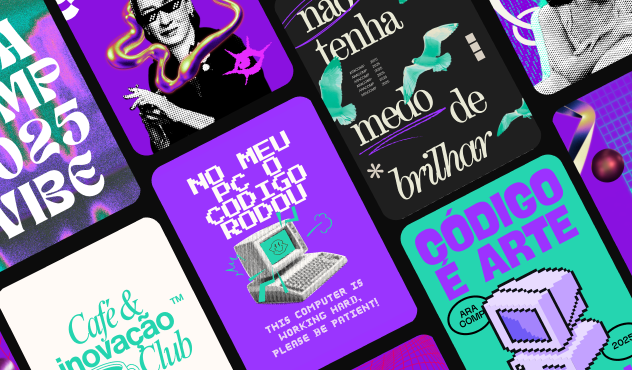
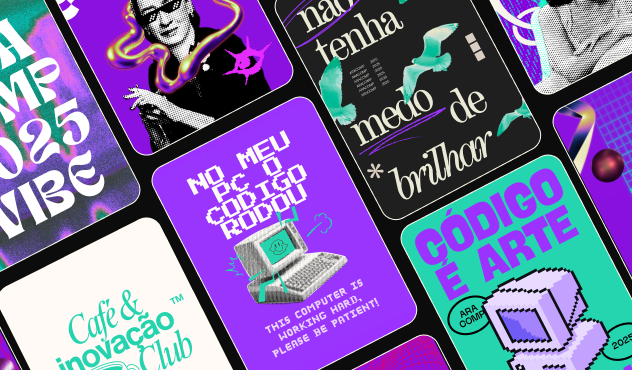
Update portfolio assets and contact links
This commit refreshes the portfolio project images, replaces the old Yu-Gi-Oh asset with a new one, updates the delivered-project counter, and switches the contact call-to-action from WhatsApp to email.

diff --git a/index.html b/index.html
@@ -399,7 +399,7 @@
                 <div class="grid grid-cols-1 md:grid-cols-2 gap-8 md:gap-10">
                     <div class="group cursor-pointer scale-in">
                         <div class="relative aspect-video rounded-3xl md:rounded-5xl overflow-hidden mb-6">
-                            <img src="assets/projects/1.png" alt="Yu-Gi-Oh Card Game" class="w-full h-full object-cover grayscale group-hover:grayscale-0 group-hover:scale-110 transition-all duration-700" />
+                            <img src="assets/projects/yugioh.png" alt="Yu-Gi-Oh Card Game" class="w-full h-full object-cover grayscale group-hover:grayscale-0 group-hover:scale-110 transition-all duration-700" />
                             <div class="absolute top-4 right-4 md:top-6 md:right-6">
                                 <div class="bg-light text-dark px-4 py-1.5 md:px-6 md:py-2 rounded-full font-bold text-[10px] md:text-xs uppercase tracking-widest shadow-xl">Web</div>
                             </div>
@@ -534,7 +534,7 @@
                                 <span class="text-[10px] md:text-xs text-light/40 uppercase tracking-widest font-bold">Anos de Experiência</span>
                             </div>
                             <div class="flex-1 min-w-[120px] bg-primary/10 p-5 md:p-6 rounded-2xl md:rounded-3xl border border-primary/20 text-center lg:text-left transition-all hover:bg-primary/20">
-                                <span class="counter block text-3xl md:text-4xl font-bold text-primary mb-1" data-target="30">0</span>
+                                <span class="counter block text-3xl md:text-4xl font-bold text-primary mb-1" data-target="50">0</span>
                                 <span class="text-[10px] md:text-xs text-light/40 uppercase tracking-widest font-bold">Projetos Entregues</span>
                             </div>
                         </div>

diff --git a/script.js b/script.js
@@ -7,7 +7,7 @@ const bar1 = document.getElementById('bar1');
 const bar2 = document.getElementById('bar2');
 const bar3 = document.getElementById('bar3');
 const contactWhatsappButton = document.getElementById('contact-whatsapp');
-const whatsappUrl = 'https://wa.me/5582996975394?text=' + encodeURIComponent('Tenho interesse em criar um projeto');
+const contactEmail = 'mailto:jhonywictordev@gmail.com';
 let isMenuOpen = false;
 
 // Mobile menu toggle
@@ -62,10 +62,10 @@ document.querySelectorAll('.smooth-link').forEach(link => {
 // Set current year
 document.getElementById('year').textContent = new Date().getFullYear();
 
-// WhatsApp contact action
+// Email contact action
 if (contactWhatsappButton) {
     contactWhatsappButton.addEventListener('click', () => {
-        window.open(whatsappUrl, '_blank', 'noopener,noreferrer');
+        window.location.href = contactEmail;
     });
 }
 
